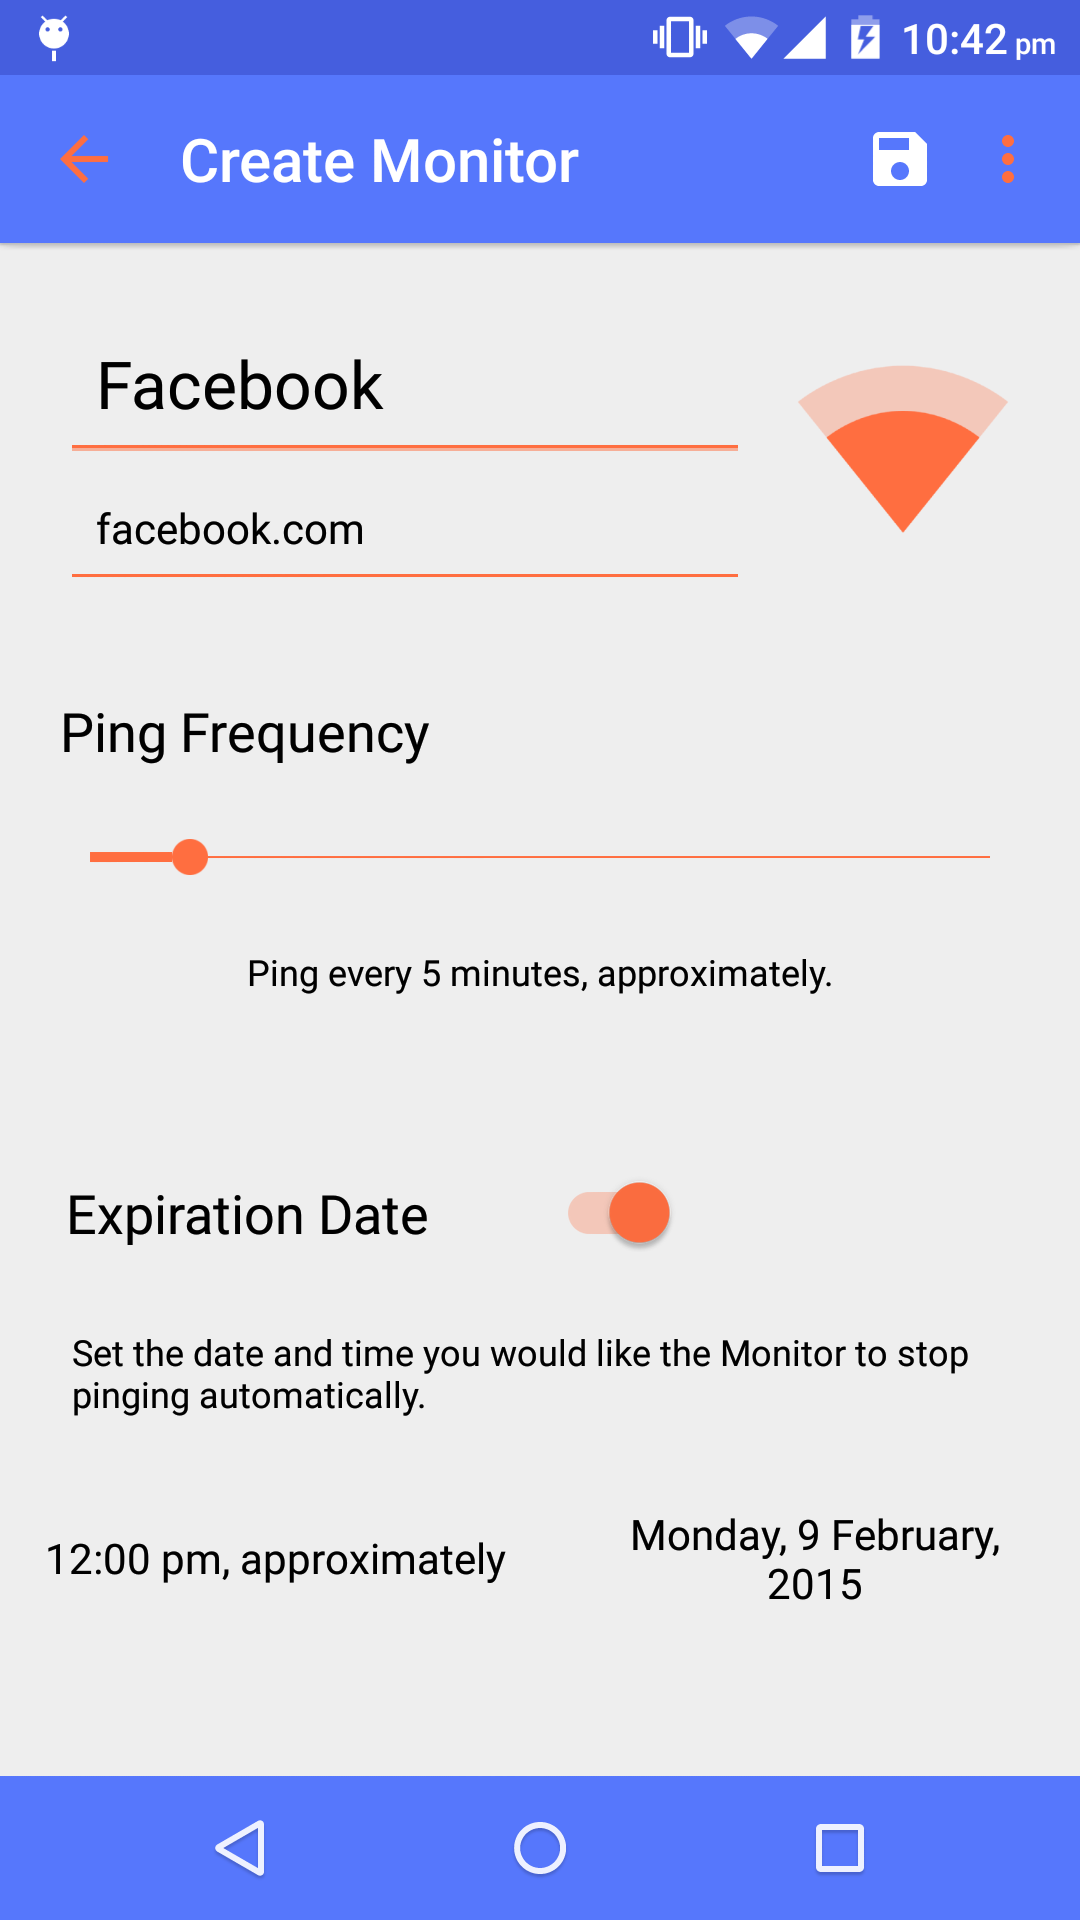
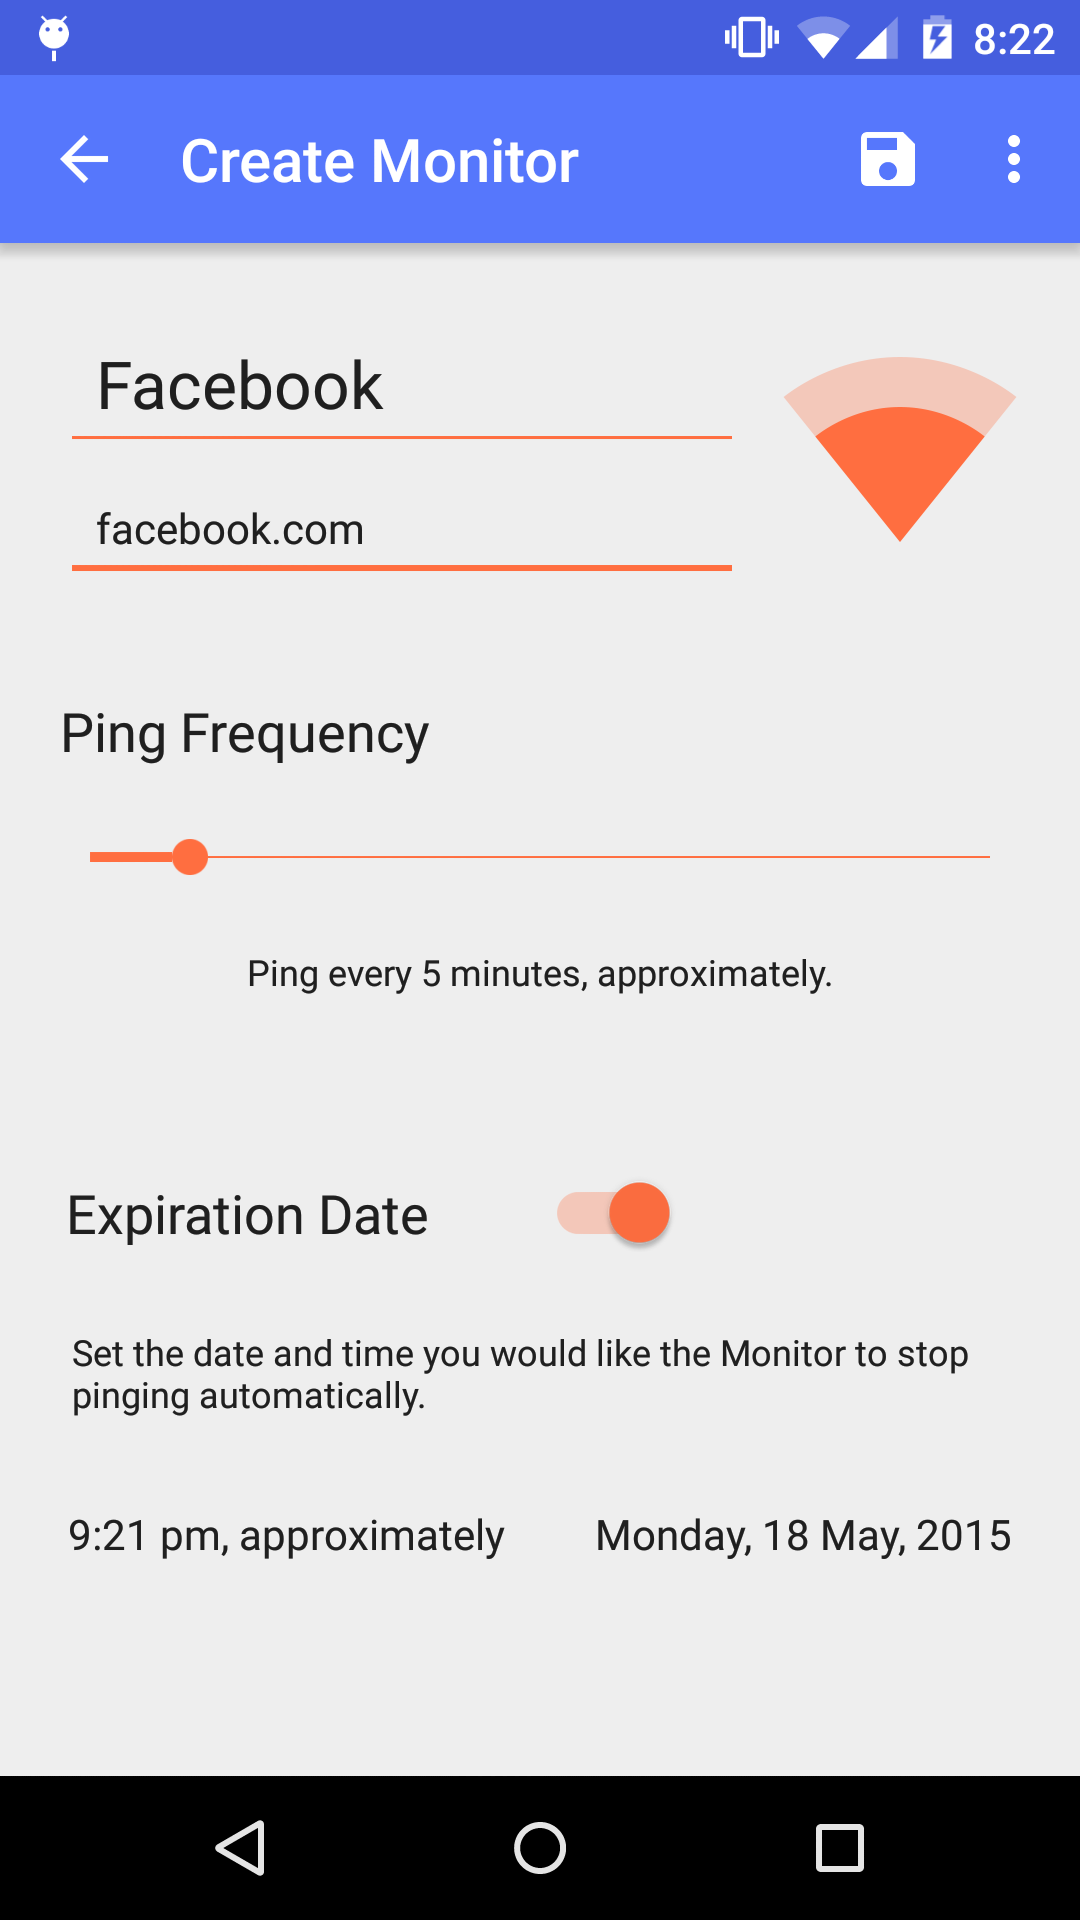
Update README and screenshots to reflect 1.2 release.

diff --git a/README.md b/README.md
@@ -1,4 +1,4 @@
-Ping!
+Ping!
 =====
 
 Unsure why you can't access a website? Ping! is a sleek, lightweight app that checks if a website is actually down or if your connection is the problem.
@@ -27,9 +27,12 @@ Screenshots
 <img src="/google_play_store_assets/screenshot_3.png" alt="Screenshot 3" width="270" height="480">
 <img src="/google_play_store_assets/screenshot_4.png" alt="Screenshot 4" width="270" height="480">
 <img src="/google_play_store_assets/screenshot_5.png" alt="Screenshot 5" width="270" height="480">
+<img src="/google_play_store_assets/screenshot_6.png" alt="Screenshot 5" width="270" height="480">
 
 Version History
 ---------------
+1.2 - 18 May, 2015
+
 1.1 - 27 February, 2015
 
 1.0 - 9 February, 2015
